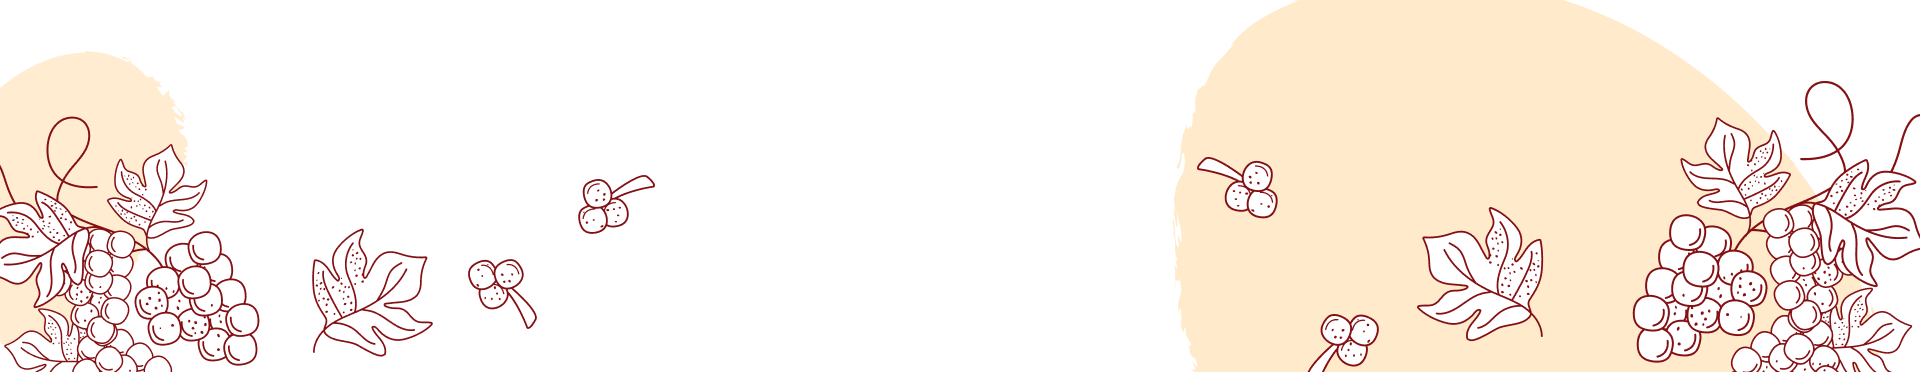
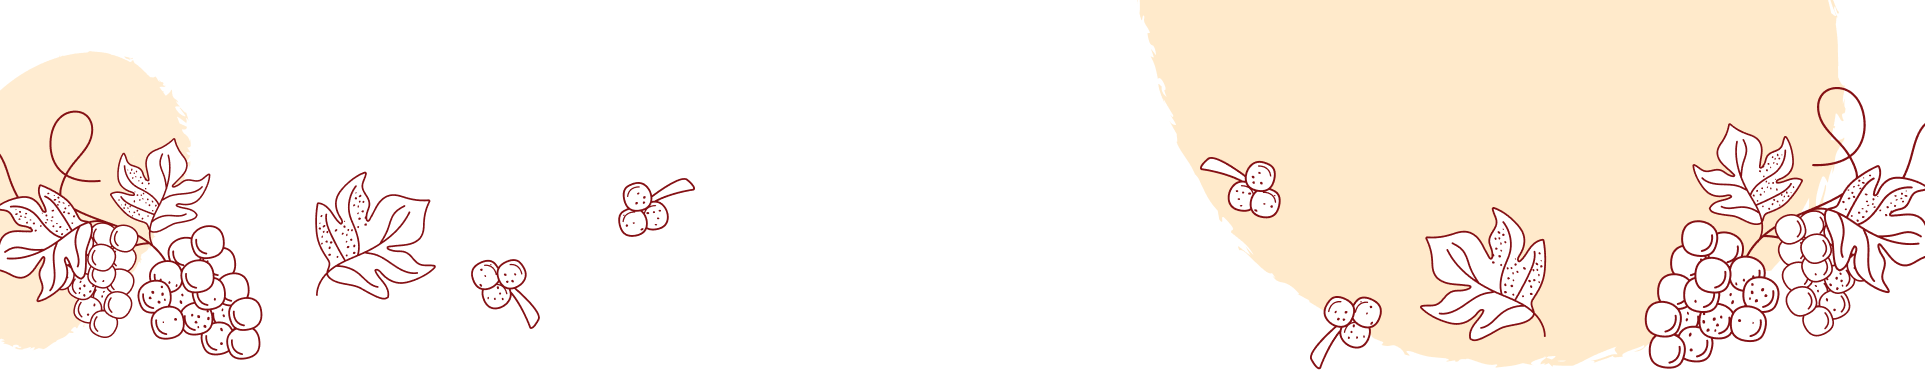
fix header styles, add page title, add wine's slider

diff --git a/frontend/src/pages/WineDetailPage/WineDetailPage.tsx b/frontend/src/pages/WineDetailPage/WineDetailPage.tsx
@@ -1,10 +1,14 @@
 import { useEffect, useState } from 'react';
 import { useParams } from 'react-router-dom';
+import { useQuery } from '@tanstack/react-query';
 import { useWineDetailStore } from '@/store/wine/wineDetailsStore';
 import WineOverview from '@/components/WineOverview/WineOverview';
 import WineReviews from '@/components/WineReviews';
 import AddReviewForm from '@/components/forms/AddReviewForm/AddReviewForm';
 import Container from '@/components/common/Container';
+import Slider from '@/components/Slider/Slider';
+import SliderCardWine from '@/components/Slider/cards/SliderCardWine';
+import { getWines } from '@/api/wines';
 import {
   StyledWinePageDiv,
   StyledWraperImage,
@@ -12,6 +16,8 @@ import {
   StyledWineImg,
   WineDetailPageTabs,
   WineDescriptionContent,
+  SliderSection,
+  SliderTitle,
 } from './WineDetailPage.styled';
 import InfoButton from '@/components/buttons/InfoButton';
 
@@ -25,8 +31,26 @@ const WineDetailPage = () => {
   const error = useWineDetailStore((s) => s.error);
   const fetchWine = useWineDetailStore((s) => s.fetchWine);
 
+  const { data: topWinesData, isLoading: isTopWinesLoading } = useQuery({
+    queryKey: ['top-wines', wine?.color, wine?.sweetness],
+    queryFn: () =>
+      getWines({
+        limit: 11,
+        sortBy: 'averageRating_desc',
+        color: wine?.color,
+        sweetness: wine?.sweetness,
+      }),
+    enabled: !!wine,
+  });
+
+  const topWines =
+    topWinesData?.data?.wines?.filter((w: any) => w._id !== wine?._id).slice(0, 10) || [];
+
   useEffect(() => {
-    if (id) fetchWine(id);
+    if (id) {
+      fetchWine(id);
+      window.scrollTo(0, 0);
+    }
   }, [id, fetchWine]);
 
   if (loading) return <p>Loading...</p>;
@@ -95,6 +119,24 @@ const WineDetailPage = () => {
           <WineOverview wine={wine} />
         </StyledWineInfo>
       </StyledWinePageDiv>
+
+      <SliderSection>
+        {topWines.length > 0 && (
+          <>
+            <SliderTitle>
+              Top Rated {wine.color} {wine.sweetness} Wines
+            </SliderTitle>
+            {isTopWinesLoading ? (
+              <p style={{ textAlign: 'center' }}>Loading similar wines...</p>
+            ) : (
+              <Slider
+                items={topWines}
+                renderItem={(wineItem: any) => <SliderCardWine wine={wineItem} />}
+              />
+            )}
+          </>
+        )}
+      </SliderSection>
     </Container>
   );
 };

diff --git a/frontend/src/components/SharedLayout/SharedLayout.tsx b/frontend/src/components/SharedLayout/SharedLayout.tsx
@@ -3,8 +3,9 @@ import Header from '@/components/Header';
 import Footer from '@/components/Footer';
 import AuthModal from '@/components/common/AuthModal/AuthModal';
 import AIAssistant from '@/components/common/AIAssistant/AIAssistant';
+import Container from '@/components/common/Container';
 import { useAuthStore } from '@/store/auth/authStore';
-import { LayoutWrapper } from './SharedLayout.styled';
+import { LayoutWrapper, PageTitleContainer, PageTitle } from './SharedLayout.styled';
 
 const SharedLayout = () => {
   const { pathname } = useLocation();
@@ -16,11 +17,37 @@ const SharedLayout = () => {
     return 'inner';
   };
 
+  const getPageTitle = () => {
+    if (pathname === '/') return '';
+
+    const segments = pathname.split('/').filter(Boolean);
+    if (segments.length === 0) return '';
+
+    // Take the first segment (e.g., "wines" from "/wines/123")
+    const mainSegment = segments[0];
+    return mainSegment.replace(/-/g, ' ');
+  };
+
+  const pageTitle = getPageTitle();
+
   return (
     <LayoutWrapper $bgType={getBgType()}>
       <Header />
 
-      <main style={{ flex: 1, paddingTop: pathname === '/' ? '100px' : '300px' }}>
+      {getBgType() === 'inner' && pageTitle && (
+        <PageTitleContainer>
+          <Container>
+            <PageTitle>{pageTitle}</PageTitle>
+          </Container>
+        </PageTitleContainer>
+      )}
+
+      <main
+        style={{
+          flex: 1,
+          paddingTop: pathname === '/' ? '100px' : pageTitle ? '150px' : '300px',
+        }}
+      >
         <Outlet />
       </main>
 

diff --git a/frontend/src/components/SharedLayout/SharedLayout.styled.ts b/frontend/src/components/SharedLayout/SharedLayout.styled.ts
@@ -28,3 +28,41 @@ export const LayoutWrapper = styled.div<{ $bgType: string }>`
     background-position: 20% 0;
   }
 `;
+
+export const PageTitleContainer = styled.div`
+  width: 100%;
+  display: flex;
+  justify-content: center;
+  align-items: flex-start;
+  padding-top: 50px;
+  padding-bottom: 20px;
+  pointer-events: none;
+
+  @media (max-width: 1024px) {
+    padding-top: 40px;
+  }
+
+  @media (max-width: 767px) {
+    padding-top: 30px;
+  }
+`;
+
+export const PageTitle = styled.h1`
+  font-family: var(--font-main);
+  font-size: 56px;
+  font-weight: 700;
+  color: var(--primary-wine);
+  text-align: center;
+  text-transform: uppercase;
+  letter-spacing: 2px;
+
+  @media (max-width: 1024px) {
+    font-size: 42px;
+  }
+
+  @media (max-width: 767px) {
+    font-size: 28px;
+    letter-spacing: 1px;
+  }
+`;
+

diff --git a/frontend/src/pages/WineDetailPage/WineDetailPage.styled.ts b/frontend/src/pages/WineDetailPage/WineDetailPage.styled.ts
@@ -4,8 +4,23 @@ export const StyledWinePageDiv = styled.div`
   width: 100%;
   display: flex;
   gap: 80px;
-  padding-bottom: 500px;
+  padding-bottom: 100px;
 `;
+
+export const SliderSection = styled.section`
+  margin-top: 80px;
+  margin-bottom: 100px;
+  width: 100%;
+`;
+
+export const SliderTitle = styled.h2`
+  text-align: center;
+  font-size: 38px;
+  margin-bottom: 40px;
+  color: var(--primary-wine);
+  font-family: var(--font-main);
+`;
+
 
 export const StyledWraperImage = styled.div`
   flex: 0 0 896px;
